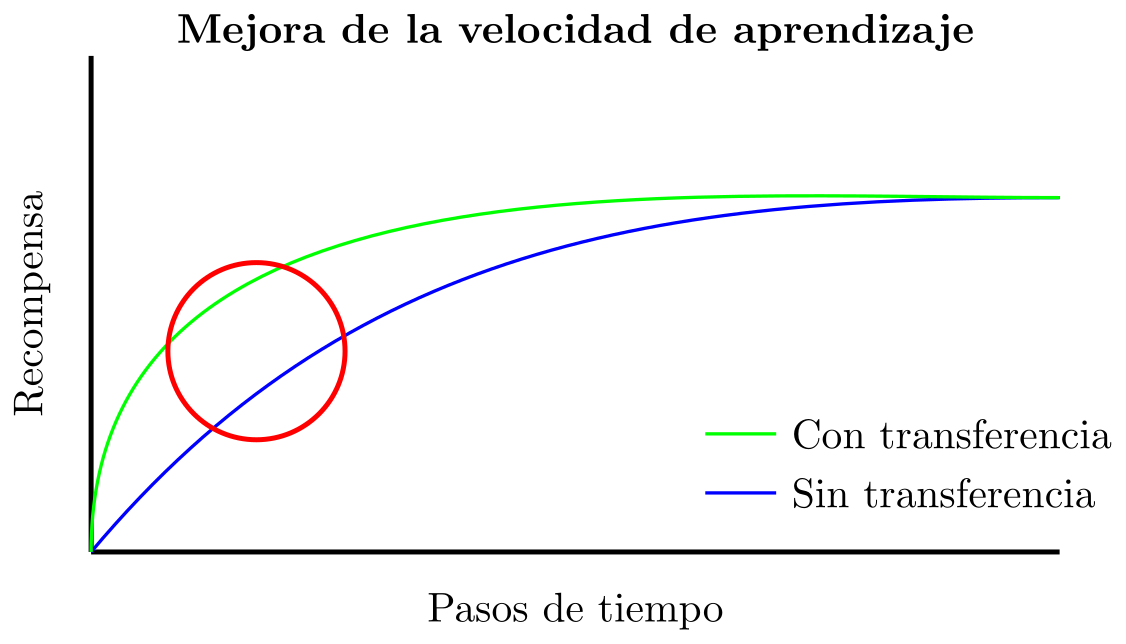
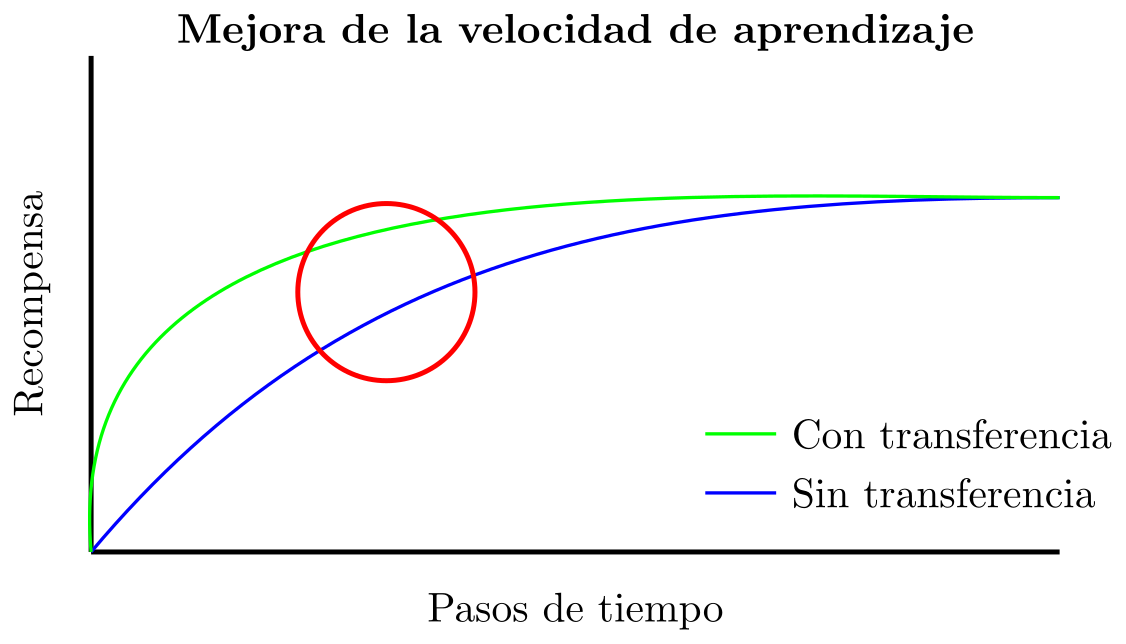
update

diff --git a/lazaric_Figure_3_4/objetives_tl_velocidad.tex b/lazaric_Figure_3_4/objetives_tl_velocidad.tex
@@ -16,9 +16,9 @@
 		
 		% Lineas
 		\draw[blue, thick] (0,0.0) to[out=50, in=180] (8.2,3.0);
-		\draw[green, thick] (0,0.0) to[out=90, in=180] (8.2,3.0);  
+		\draw[green, thick] (0,0.0) to[out=95, in=180] (8.2,3.0);  
 		
-		\node[circle,draw=red, minimum size=1.5cm,  very thick] (c) at (1.4,1.7) {};
+		\node[circle,draw=red, minimum size=1.5cm,  very thick] (c) at (2.5,2.2) {};
 		
 			
 	\end{tikzpicture}
